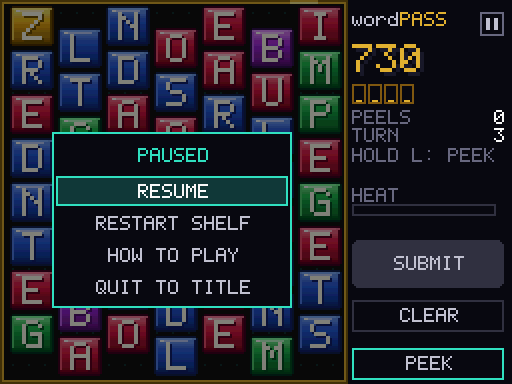
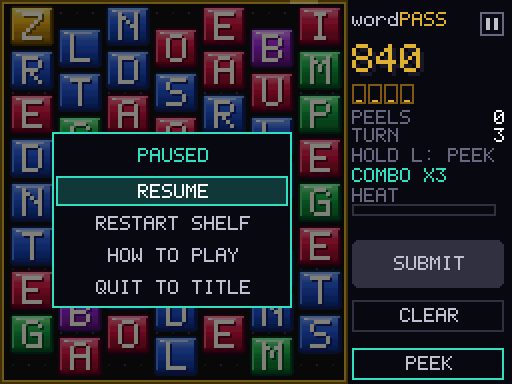
Pass-letter pay assertions and the guide's worked example follow the streak bonus
smoke.py, the perfect-pass scenario and screens.py (results card 4065: words 840 with the combo, letters 400, their
streak 600, shelf 1000, speed 825, perfect 400) expected a flat 100 x shelf a letter; GUIDE 5.5 and the retaken
card pictures say the same. Emu.streak_bonus / streak_total mirror boardStreakBonus.

Claude-Session: https://claude.ai/code/session_01Xd63cxEMKgVYhXqDY7LkzF

Changed region(s): [[0.6875, 0.0938, 0.7812, 0.1875], [0.6875, 0.4375, 0.875, 0.5]]

diff --git a/tools/emu/smoke.py b/tools/emu/smoke.py
@@ -57,11 +57,13 @@ for i in range(1, g['passLen'] + 1):
     c, r = e.secret_cells(g)[i]
     if g['cell'][c][r][1] in (1,):
         doused += douse(c, r); s0 = e.state()['score']; e.peel(c, r); g = e.state()
-        if g['state'] == 1: assert g['score'] - s0 == 100 * g['shelf'], f'pass letter {i} paid {g["score"] - s0}, want {100 * g["shelf"]}'
+        # every pass letter pays 100 x shelf, and one found right after another pays 100 x shelf more per step of the streak (three steps at most)
+        want = 100 * g['shelf'] * (1 + min(max(g['hitStreak'] - 1, 0), 3))
+        if g['state'] == 1: assert g['score'] - s0 == want, f'pass letter {i} paid {g["score"] - s0}, want {want} (streak {g["hitStreak"]})'
 g = e.state(); assert g['state'] == 2, f'pass not completed: state {g["state"]} fail {g["fail"]} found {g["found"]}'
 print('shelf 1 cleared on turn', g['turn'], 'heat', g['heat'], 'flames', e.burn_cells(g))
 # one plain peel plus every secret: peels == passLen + 1, a CLEAN pass on shelf 1
-want = 100 * g['passLen'] + 1000 + 25 * max(0, 40 - g['turn']) + 150
+want = 100 * g['passLen'] + 100 * sum(min(k - 1, 3) for k in range(1, g['passLen'] + 1)) + 1000 + 25 * max(0, 40 - g['turn']) + 150     # the letters, their streak bonus (every peel after the plain one hit), the shelf, speed, CLEAN
 assert g['peels'] == g['passLen'] + 1 and g['passBonusKind'] == 1, f'peels {g["peels"]} kind {g["passBonusKind"]}'
 assert g['score'] - scoreBeforePeeking - doused == want, f'pass paid {g["score"] - scoreBeforePeeking - doused}, want {want} (turn {g["turn"]}, doused {doused})'
 assert g['speedBonus'] == 25 * max(0, 40 - g['turn']) and g['peelBonus'] == 150, f'speed {g["speedBonus"]} peel {g["peelBonus"]}'

diff --git a/tools/emu/screens.py b/tools/emu/screens.py
@@ -543,9 +543,9 @@ def cards():
     e.press('START', settle=20)
     save(zoom(touch(grab(e)), 2), 'pause_menu.png')
     e.press('START', settle=20)
-    # results card, after the tally has finished
+    # results card, after the tally has finished (4065: the words 840 with their combo bonus, the four letters 400 and their streak bonus 600, the shelf 1000, speed 825, perfect 400)
     g = pass_by_peeling(e, keep_turn=True)
-    assert g['score'] == 3355 and g['turn'] == 7 and g['speedBonus'] == 825 and g['peelBonus'] == 400, (g['score'], g['turn'], g['speedBonus'], g['peelBonus'])
+    assert g['score'] == 4065 and g['turn'] == 7 and g['speedBonus'] == 825 and g['peelBonus'] == 400, (g['score'], g['turn'], g['speedBonus'], g['peelBonus'])
     e.run(110)
     save(zoom(touch(grab(e)), 2), 'results_card.png')
     e.tap(100, 100); e.run(200)

diff --git a/tools/emu/wp.py b/tools/emu/wp.py
@@ -257,6 +257,14 @@ class Emu:
         if peels <= pass_len + 2: return 1000 * shelf, speed, 150 * shelf, 1
         return 1000 * shelf, speed, 0, 0
     @staticmethod
+    def streak_bonus(shelf, run):
+        """The streak bonus the run-th pass letter in a row pays (board.c boardStreakBonus): 100 x shelf per step, three steps at most."""
+        return 100 * shelf * max(0, min(run - 1, 3))
+    @staticmethod
+    def streak_total(shelf, n):
+        """What a pass of n letters found in one unbroken run pays in streak bonus."""
+        return sum(Emu.streak_bonus(shelf, k) for k in range(1, n + 1))
+    @staticmethod
     def heat_for(n):
         """Heat a word of n letters adds (board.c boardHeatFor)."""
         return 3 if n <= 3 else 2 if n == 4 else 1 if n <= 6 else 0

diff --git a/tools/emu/test_rules.py b/tools/emu/test_rules.py
@@ -634,7 +634,7 @@ def _():
     shelfB, speed, peelB, kind = e.pass_bonus(shelf, g['turn'], g['peels'], n)
     assert kind == 2 and g['passBonusKind'] == 2 and g['peelBonus'] == 400 * shelf and g['speedBonus'] == speed, \
         f'kind {g["passBonusKind"]} peel {g["peelBonus"]} speed {g["speedBonus"]} (want {speed})'
-    want = 100 * n * shelf + shelfB + speed + peelB
+    want = 100 * n * shelf + Emu.streak_total(shelf, n) + shelfB + speed + peelB      # every peel found a letter: the whole pass is one streak
     assert g['score'] - score0 == want, f'pass paid {g["score"] - score0}, want {want}'
     e.run(40); e.shot(f'{out}/rules_perfect.png')
     fps = e.fps(); assert fps >= 118, f'results fps {fps}/120'

diff --git a/docs/GUIDE.md b/docs/GUIDE.md
@@ -463,7 +463,7 @@ Multiply each by the **shelf number**. On shelf 3: 300 per letter, 3000 for the 
 
 ### 5.5 The results card, line by line
 
-![The results card for shelf 1 with its tally: best word PLANETS +470, 3 words, 4 peels, 7 turns, shelf bonus +1000, speed +825, perfect pass +400.](img/results_card.png)
+![The results card for shelf 1 with its tally: best word PLANETS +564, 3 words, 4 peels, 7 turns, shelf bonus +1000, speed +825, perfect pass +400.](img/results_card.png)
 *The card from the quick start. The run behind it: three words (STONE, GARDEN and PLANETS), four peels that all found a letter, seven turns.*
 
 | Line | What it shows |
@@ -481,7 +481,7 @@ Multiply each by the **shelf number**. On shelf 3: 300 per letter, 3000 for the 
 
 The score on the panel counts up from the score before the bonuses, filling the three bonus rows in order (shelf, speed, peel). A tap skips to the end. A blinking **NEW BEST** says the run beat a saved record.
 
-Worked, for that card: the words scored 100 (STONE: 5 × 2 × 10), 160 (GARDEN: 8 × 2 × 10) and 470 (PLANETS: 9 × 3 × 10 + 200), a total of 730. The four pass letters paid 4 × 100 = 400 as they were found. Then 1000 for the shelf, 25 × 1 × (40 − 7) = 825 for speed and 400 × 1 for a perfect pass: 730 + 400 + 1000 + 825 + 400 = **3355**, the number on the panel.
+Worked, for that card: the words scored 100 (STONE: 5 × 2 × 10), 160 (GARDEN: 8 × 2 × 10) and 470 (PLANETS: 9 × 3 × 10 + 200), and as the second and third word in a row (no peel between them) the last two carry the combo bonus, +10% and +20%: 176 and 564, a total of 840. The four pass letters paid 4 × 100 = 400 as they were found, and finding them in a row added a streak bonus of 0 + 100 + 200 + 300 = 600 (section 5.7). Then 1000 for the shelf, 25 × 1 × (40 − 7) = 825 for speed and 400 × 1 for a perfect pass: 840 + 400 + 600 + 1000 + 825 + 400 = **4065**, the number on the panel.
 
 <!-- check:example name=stone base=5 len=5 burn=0 diamonds=0 repeat=0 expect=100 -->
 <!-- check:example name=garden base=8 len=6 burn=0 diamonds=0 repeat=0 expect=160 -->
